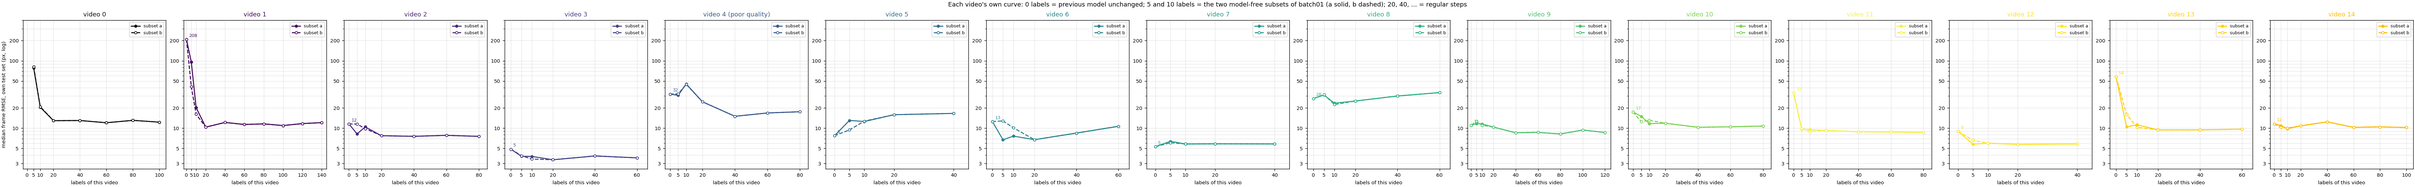
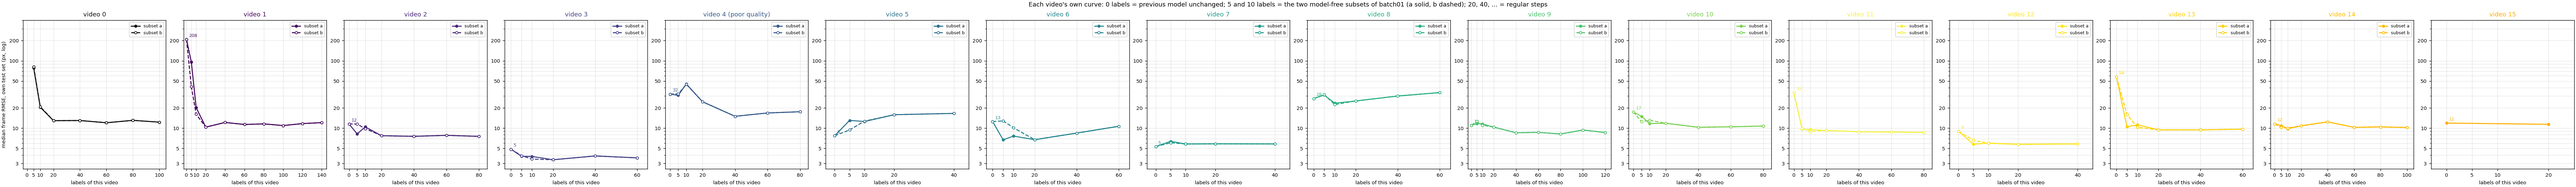
Video 15 step 1 selection recorded (15807 of 57158 flagged, batch 2 sheet); cross-eval of model 1611
Claude-Session: https://claude.ai/code/session_01HbY3eFuxfPQiRo7QFugpjw

diff --git a/README.md b/README.md
@@ -28,7 +28,7 @@ per-frame predictions stay local; git carries code, documentation and audited ag
 | Finished | **video 12** (Terra, 2025-10-16, second video of mouse C): test50 / val20 / batch01 pre-labeled with the video-11 40-label model (1212) and corrected by the labeler (test50: 110 of 400 points moved), test set frozen; 0 labels (model 1212) = 5.13 px, 20 labels = 5.77 px, 40 labels = 5.84 px (0% of frames > 50 px at every step): no step improves the 0-label number, the plateau rule fired at 40, finished with the plateau at **0 labels, 5.13 px** (user decision 2026-10-04 21:29); no labels carried |
 | Finished | **video 13** (Terra, 2025-10-15, third video of mouse C): test50 / val20 / batch01 pre-labeled with the video-11 40-label model (1212) and corrected by the labeler (test50: 287 of 400 points moved), test set frozen; 0 labels (model 1212) = 69.13 px (56% of frames > 50 px: the model that fitted video 12 does not fit this day), 20 labels = 9.43 px, 40 labels = 9.44 px, 60 labels = 9.67 px (0% of frames > 50 px from 20 labels on): no step improves on 20 labels, the plateau rule fired at 60; **plateau at 20 labels, 9.43 px** (user decision 2026-10-06), tag `v0.9.15-video13-plateau`; batch01 (20 labels) carried, 600 labels go into video 14. Fewer-labels: 5 labels 10.46 / 16.03 px, 10 labels 11.24 / 10.29 px (first-batch size only, no jump selection afterwards; both above the 20-label 9.43 px). |
 | Finished | **video 14** (Terra, 2025-10-14, fourth video of mouse C): test50 / val20 / batch01 pre-labeled with the video-13 20-label model (1411) and corrected by the labeler (test50: 149 of 400 points moved), test set frozen; 0 labels (model 1411) = 13.33 px (16% of frames > 50 px), 20 labels = 10.83 px, 40 labels = 12.41 px, 60 labels = 10.30 px, 80 labels = 10.45 px, 100 labels = 10.24 px (2% of frames > 50 px from 20 labels on); 80 and 100 stay within 3% of 10.30, the plateau rule fired at 100; **plateau at 60 labels, 10.30 px** (user decision 2026-10-07), tag `v0.9.16-video14-plateau`; batches 1-3 (60 labels) carried, 660 labels go into video 15; batch 6 was selected but not labeled. Fewer-labels: 5 labels 10.93 / 10.22 px, 10 labels 9.82 / 10.06 px (first-batch size only, no jump selection afterwards; medians within 10% of the 20-label 10.83 px, subset 5b with 14% of frames > 50 px). |
-| In progress | **video 15** (Terra, 2025-10-13): test50 / val20 / batch01 extracted on 2026-10-06 (model-free, same rule as every video); test50 was pre-labeled with the video-14 20-label model (1511) at the labeler's request before video 14's plateau was known, corrected (126 of 400 points moved) and frozen on 2026-10-06; val20 / batch01 pre-labeled with the video-14 plateau model (1513, 60 labels) on 2026-10-07 and being corrected; 0 labels (model 1513) = 10.57 px (p90 28.8, 0% of frames > 50 px, 64% of keypoints with confidence >= 0.6); 20 labels (shuffle 1611) = 11.42 px (p90 26.2, 0% > 50 px, 86% confidence; no gain over 10.57, one flat step by the rule); batch 2 being selected (2026-10-07 21:30). Training set of every step = 660 carried labels of videos 0-14 + this video's labels; shuffles 1611, 1612, ... |
+| In progress | **video 15** (Terra, 2025-10-13): test50 / val20 / batch01 extracted on 2026-10-06 (model-free, same rule as every video); test50 was pre-labeled with the video-14 20-label model (1511) at the labeler's request before video 14's plateau was known, corrected (126 of 400 points moved) and frozen on 2026-10-06; val20 / batch01 pre-labeled with the video-14 plateau model (1513, 60 labels) on 2026-10-07 and being corrected; 0 labels (model 1513) = 10.57 px (p90 28.8, 0% of frames > 50 px, 64% of keypoints with confidence >= 0.6); 20 labels (shuffle 1611) = 11.42 px (p90 26.2, 0% > 50 px, 86% confidence; no gain over 10.57, one flat step by the rule); batch 2 selected (15807 of 57158 pool frames flagged, 27.7%) and being labeled (2026-10-07 22:50). Training set of every step = 660 carried labels of videos 0-14 + this video's labels; shuffles 1611, 1612, ... |
 | Analysis (2026-10-04) | blink and pupil area on all 12 finished videos (`v2_new_pupil_top_video_scaling/results/blink_and_area/`): four-point area median error 6.6% (three-point 8.3%); closed eye best detected by the mean confidence of the four pupil points (27 of 28 closed frames, 4.1% of open frames flagged; the earlier rule flags 55.7%); area traces still contain tracking jumps not covered by the closure rule. Error and confidence per keypoint (`.../results/keypoint_confidence_error/`): pupil top is the least accurate point (10.9 px median) |
 | Next | Terra units 16-18, one recording day each, newest first |
 

diff --git a/v2_new_pupil_top_video_scaling/15_20251013_Terra_spont_1/results/README.md b/v2_new_pupil_top_video_scaling/15_20251013_Terra_spont_1/results/README.md
@@ -19,7 +19,7 @@ videos 10 and 11 batches 1-2: 40 each; video 13 batch 1: 20; video 14 batches 1-
 | labels of this video | median | p90 | frames > 50 px | keypoints conf >= 0.6 | pool frames flagged by the jump rule |
 |---|---|---|---|---|---|
 | 0 (video-14 60-label model 1513, applied unchanged) | 10.57 px | 28.8 | 0% | 64% | – |
-| 20 (shuffle 1611) | 11.42 px | 26.2 | 0% | 86% | pending |
+| 20 (shuffle 1611) | 11.42 px | 26.2 | 0% | 86% | 15807 of 57158 (27.7%) |
 
 The other video-14 models give 10.4-10.8 px on this test set (40 labels 10.40, 80 labels 10.77), the video-12 models
 11.4-16.4 px, the video-13 plateau model 26.5 px (`../results/cross_video_matrix.csv`).
